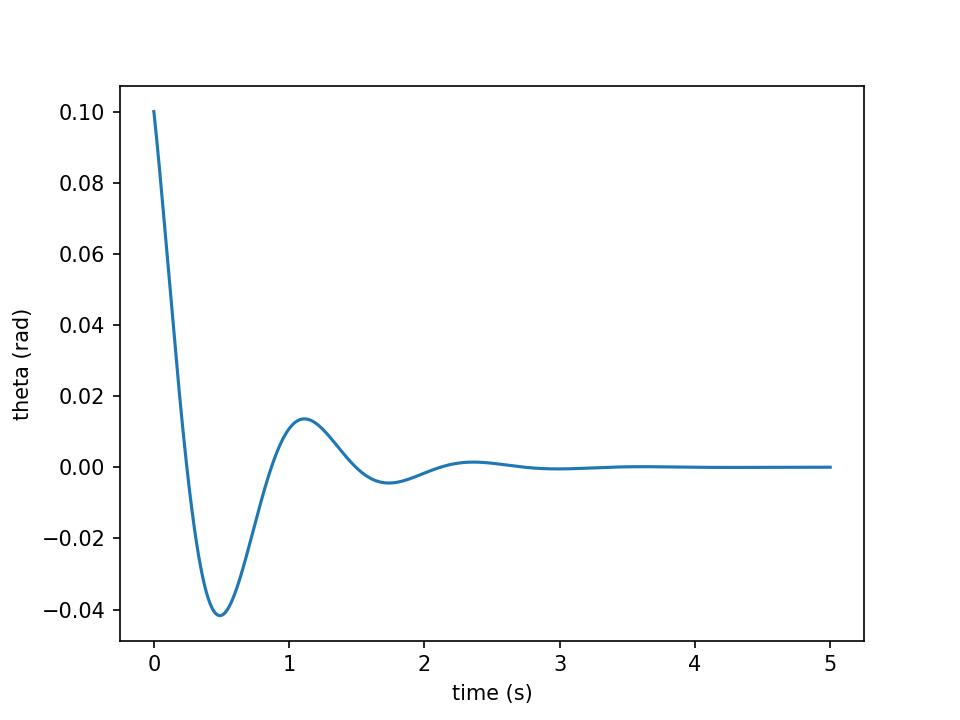
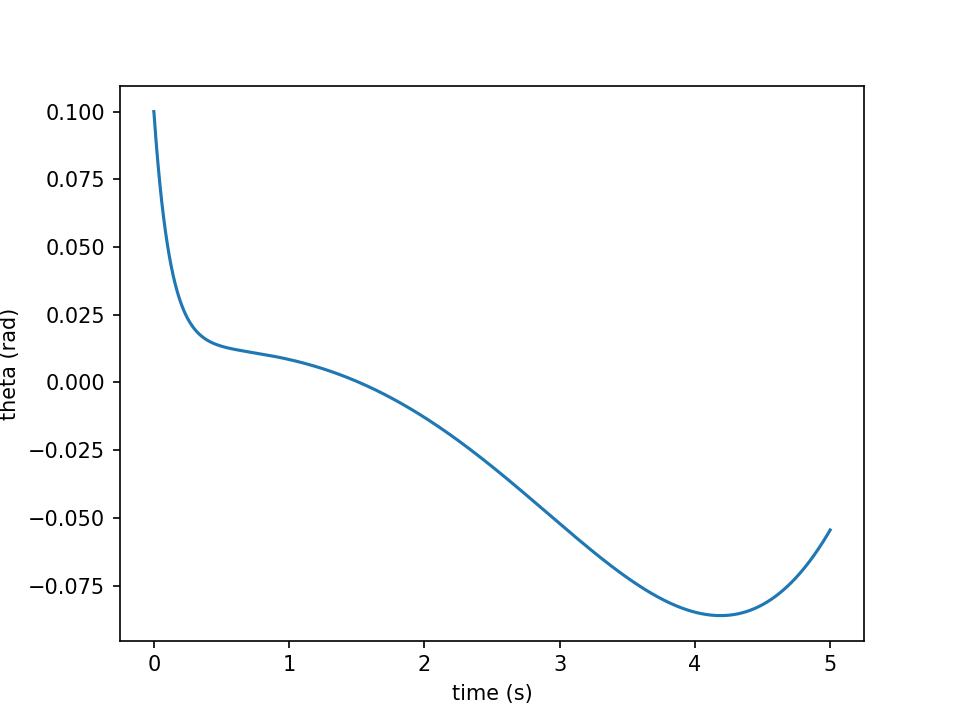
Milestone 3: Ziegler-Nichols tuning + comparison vs hand-tuned

diff --git a/project-1/sim/tuning.py b/project-1/sim/tuning.py
@@ -1,5 +1,6 @@
 # Milestone 2 final tuned gains: Kp=25, Ki=0, Kd=1.8
 # Settles within ±0.05 rad by t=0.14s, holds through 5s.
+# Conclusion: Ku = 12, Tu = 4, and "ZN underperforms hand-tuned on this open loop unstable system"
 
 import numpy as np
 import matplotlib.pyplot as plt
@@ -7,7 +8,7 @@ from pendulum import simulate
 from controllers import PID
 
 dt = 0.001
-pid = PID(Kp=25.0, Ki=0, Kd=1.8, dt=dt)
+pid = PID(Kp=7.2, Ki=3.6, Kd=3.6, dt=dt)
 
 s0 = np.array([0.0, 0.0, 0.1, 0.0])
 def controller(state, t):
@@ -18,7 +19,26 @@ t, states, forces = simulate(s0, controller, t_end=5.0, dt=dt)
 plt.plot(t, states[:,2])
 plt.xlabel("time (s)")
 plt.ylabel("theta (rad)")
-
 plt.savefig("../runs/pid_response.png", dpi=150)
 plt.show()
 
+
+
+# Second run for the hand tuned gains
+
+pid_hand = PID(Kp=25, Ki=0, Kd=1.8, dt=dt)
+def controller_hand(state, t):
+    theta=state[2]
+    return pid_hand.update(theta)
+t, states_hand, forces = simulate(s0, controller_hand, t_end=5.0, dt=dt)
+
+
+
+plt.plot(t, states[:,2], label='Ziegler-Nichols (Kp=7.2, Ki=3.6, Kd=3.6)')
+plt.plot(t, states_hand[:,2], label='Hand-tuned (Kp=25, Kd=1.8)')
+plt.axhline(0, color='gray', linestyle='--', linewidth=0.8)
+plt.xlabel("Time (s)")
+plt.ylabel('theta (rad)')
+plt.legend()
+plt.savefig("../runs/zn_vs_hand.png", dpi=150)
+plt.show()
